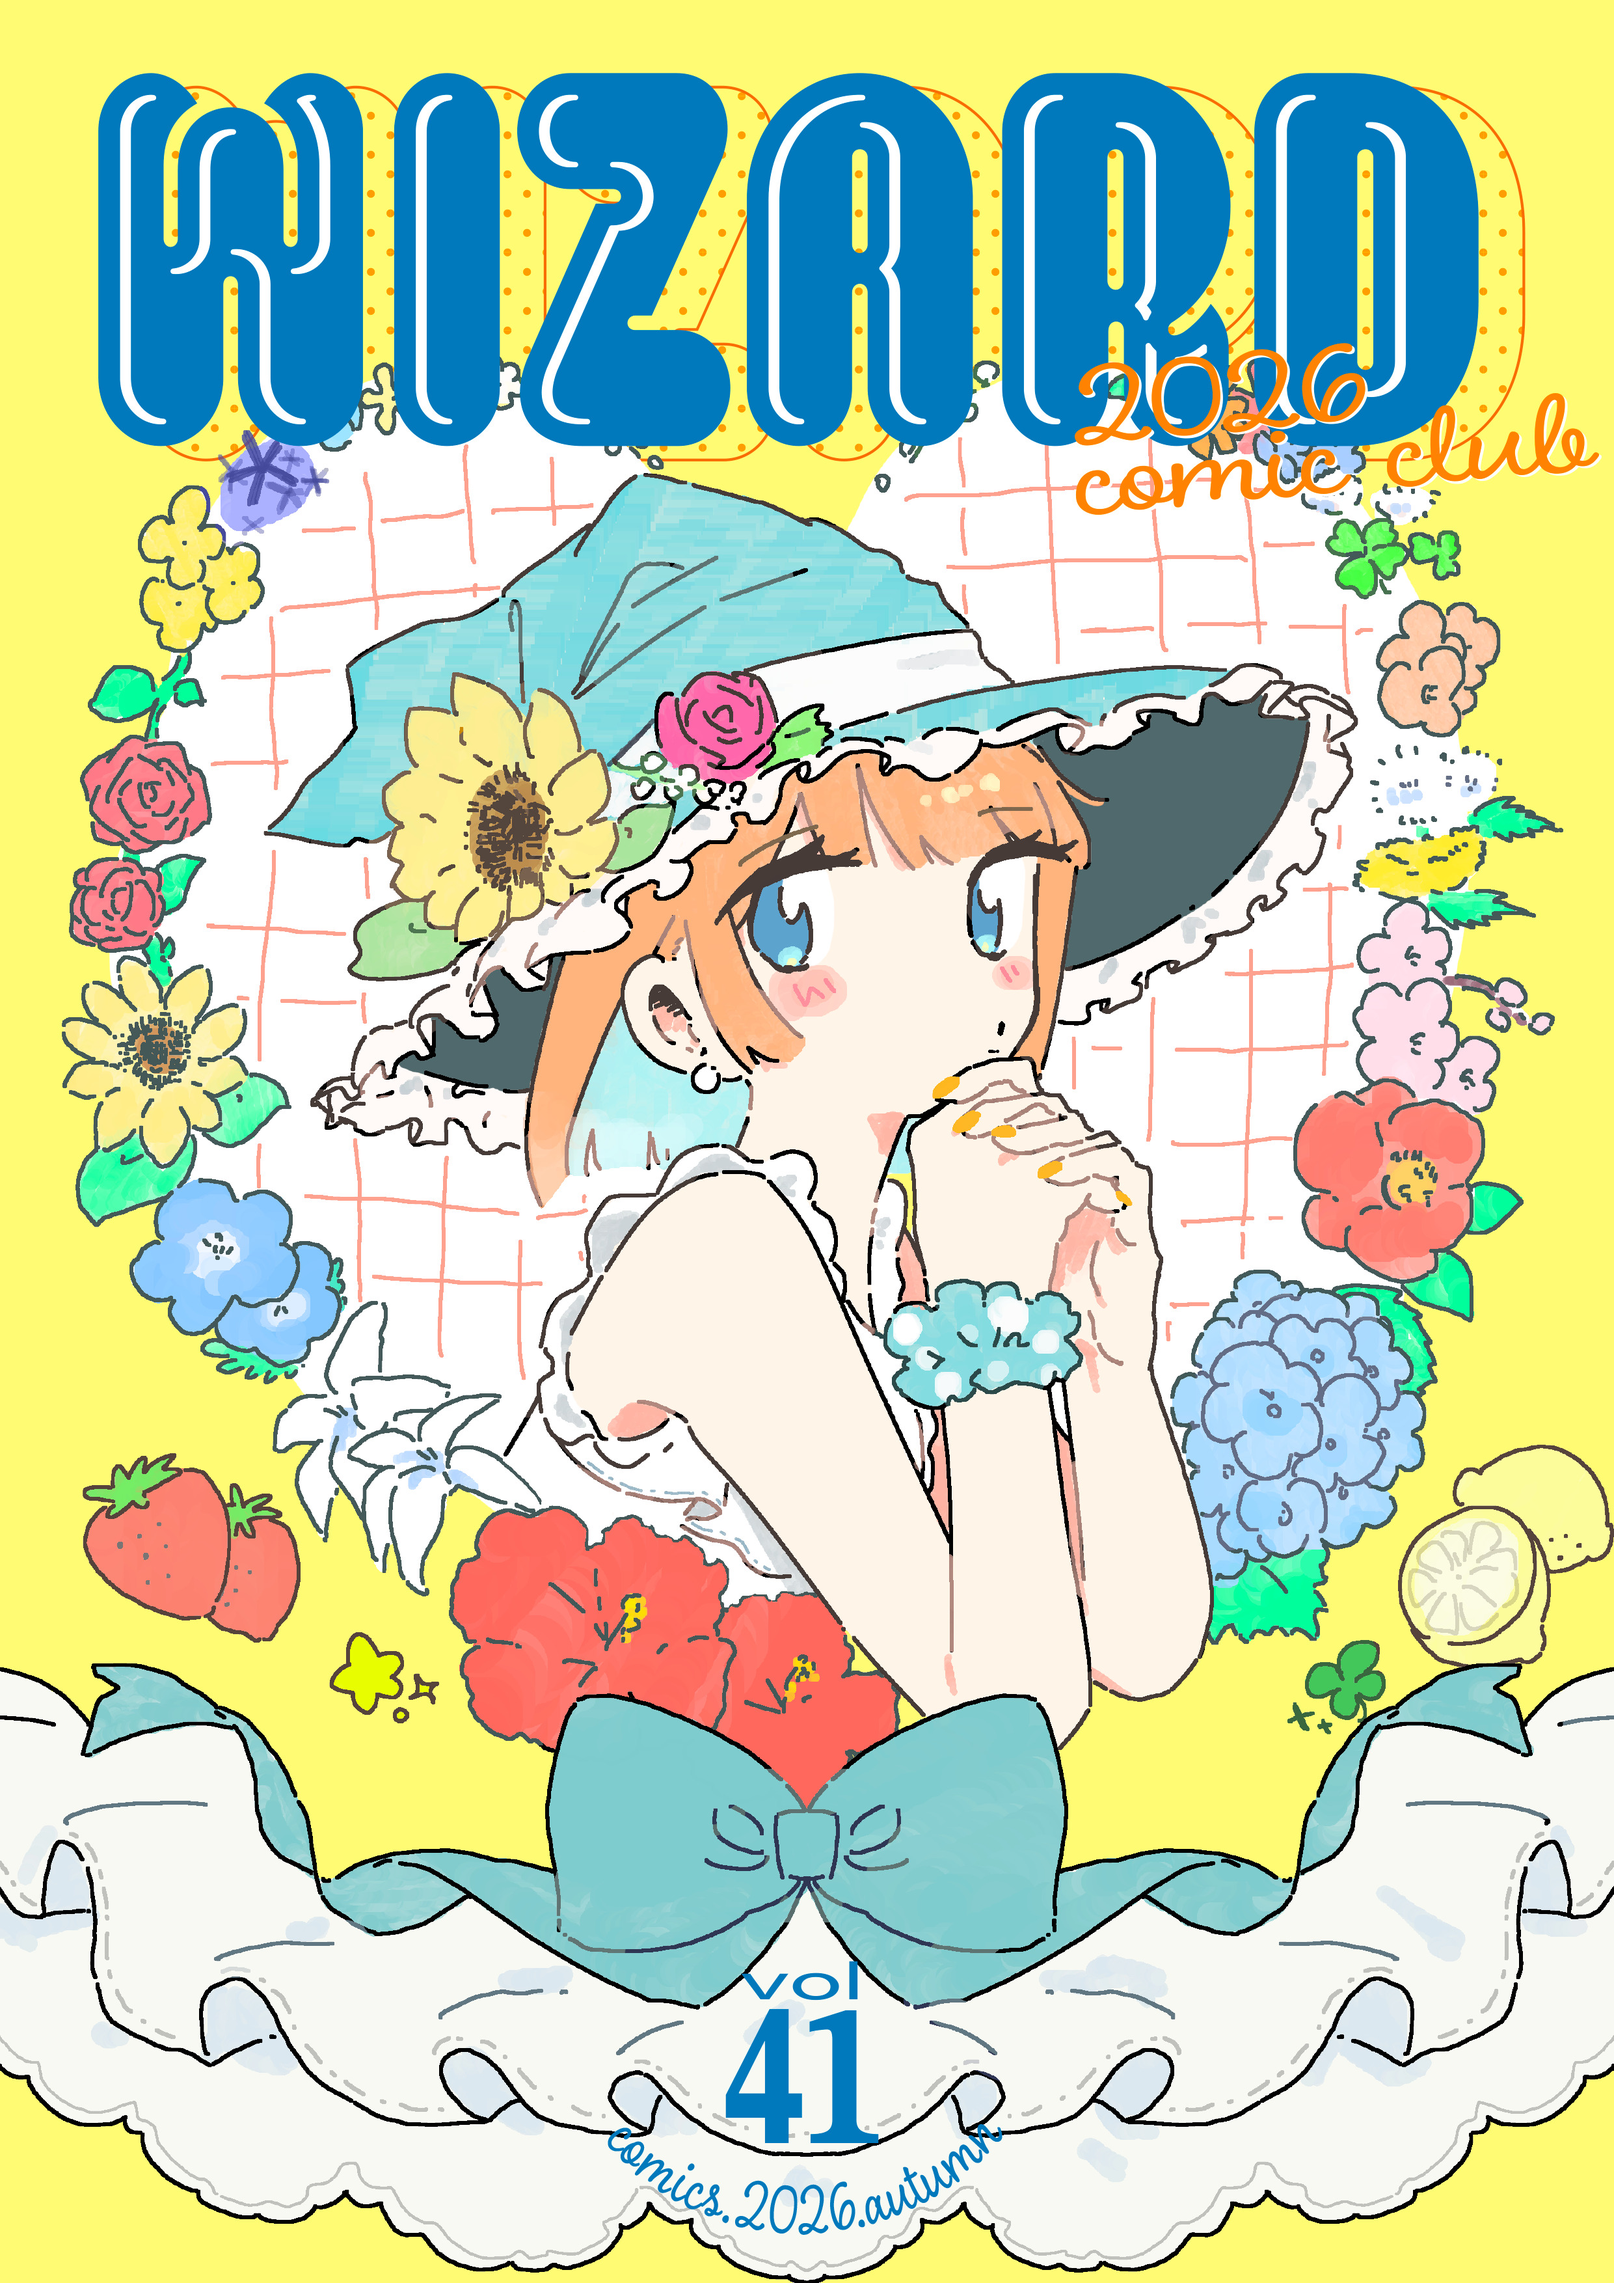
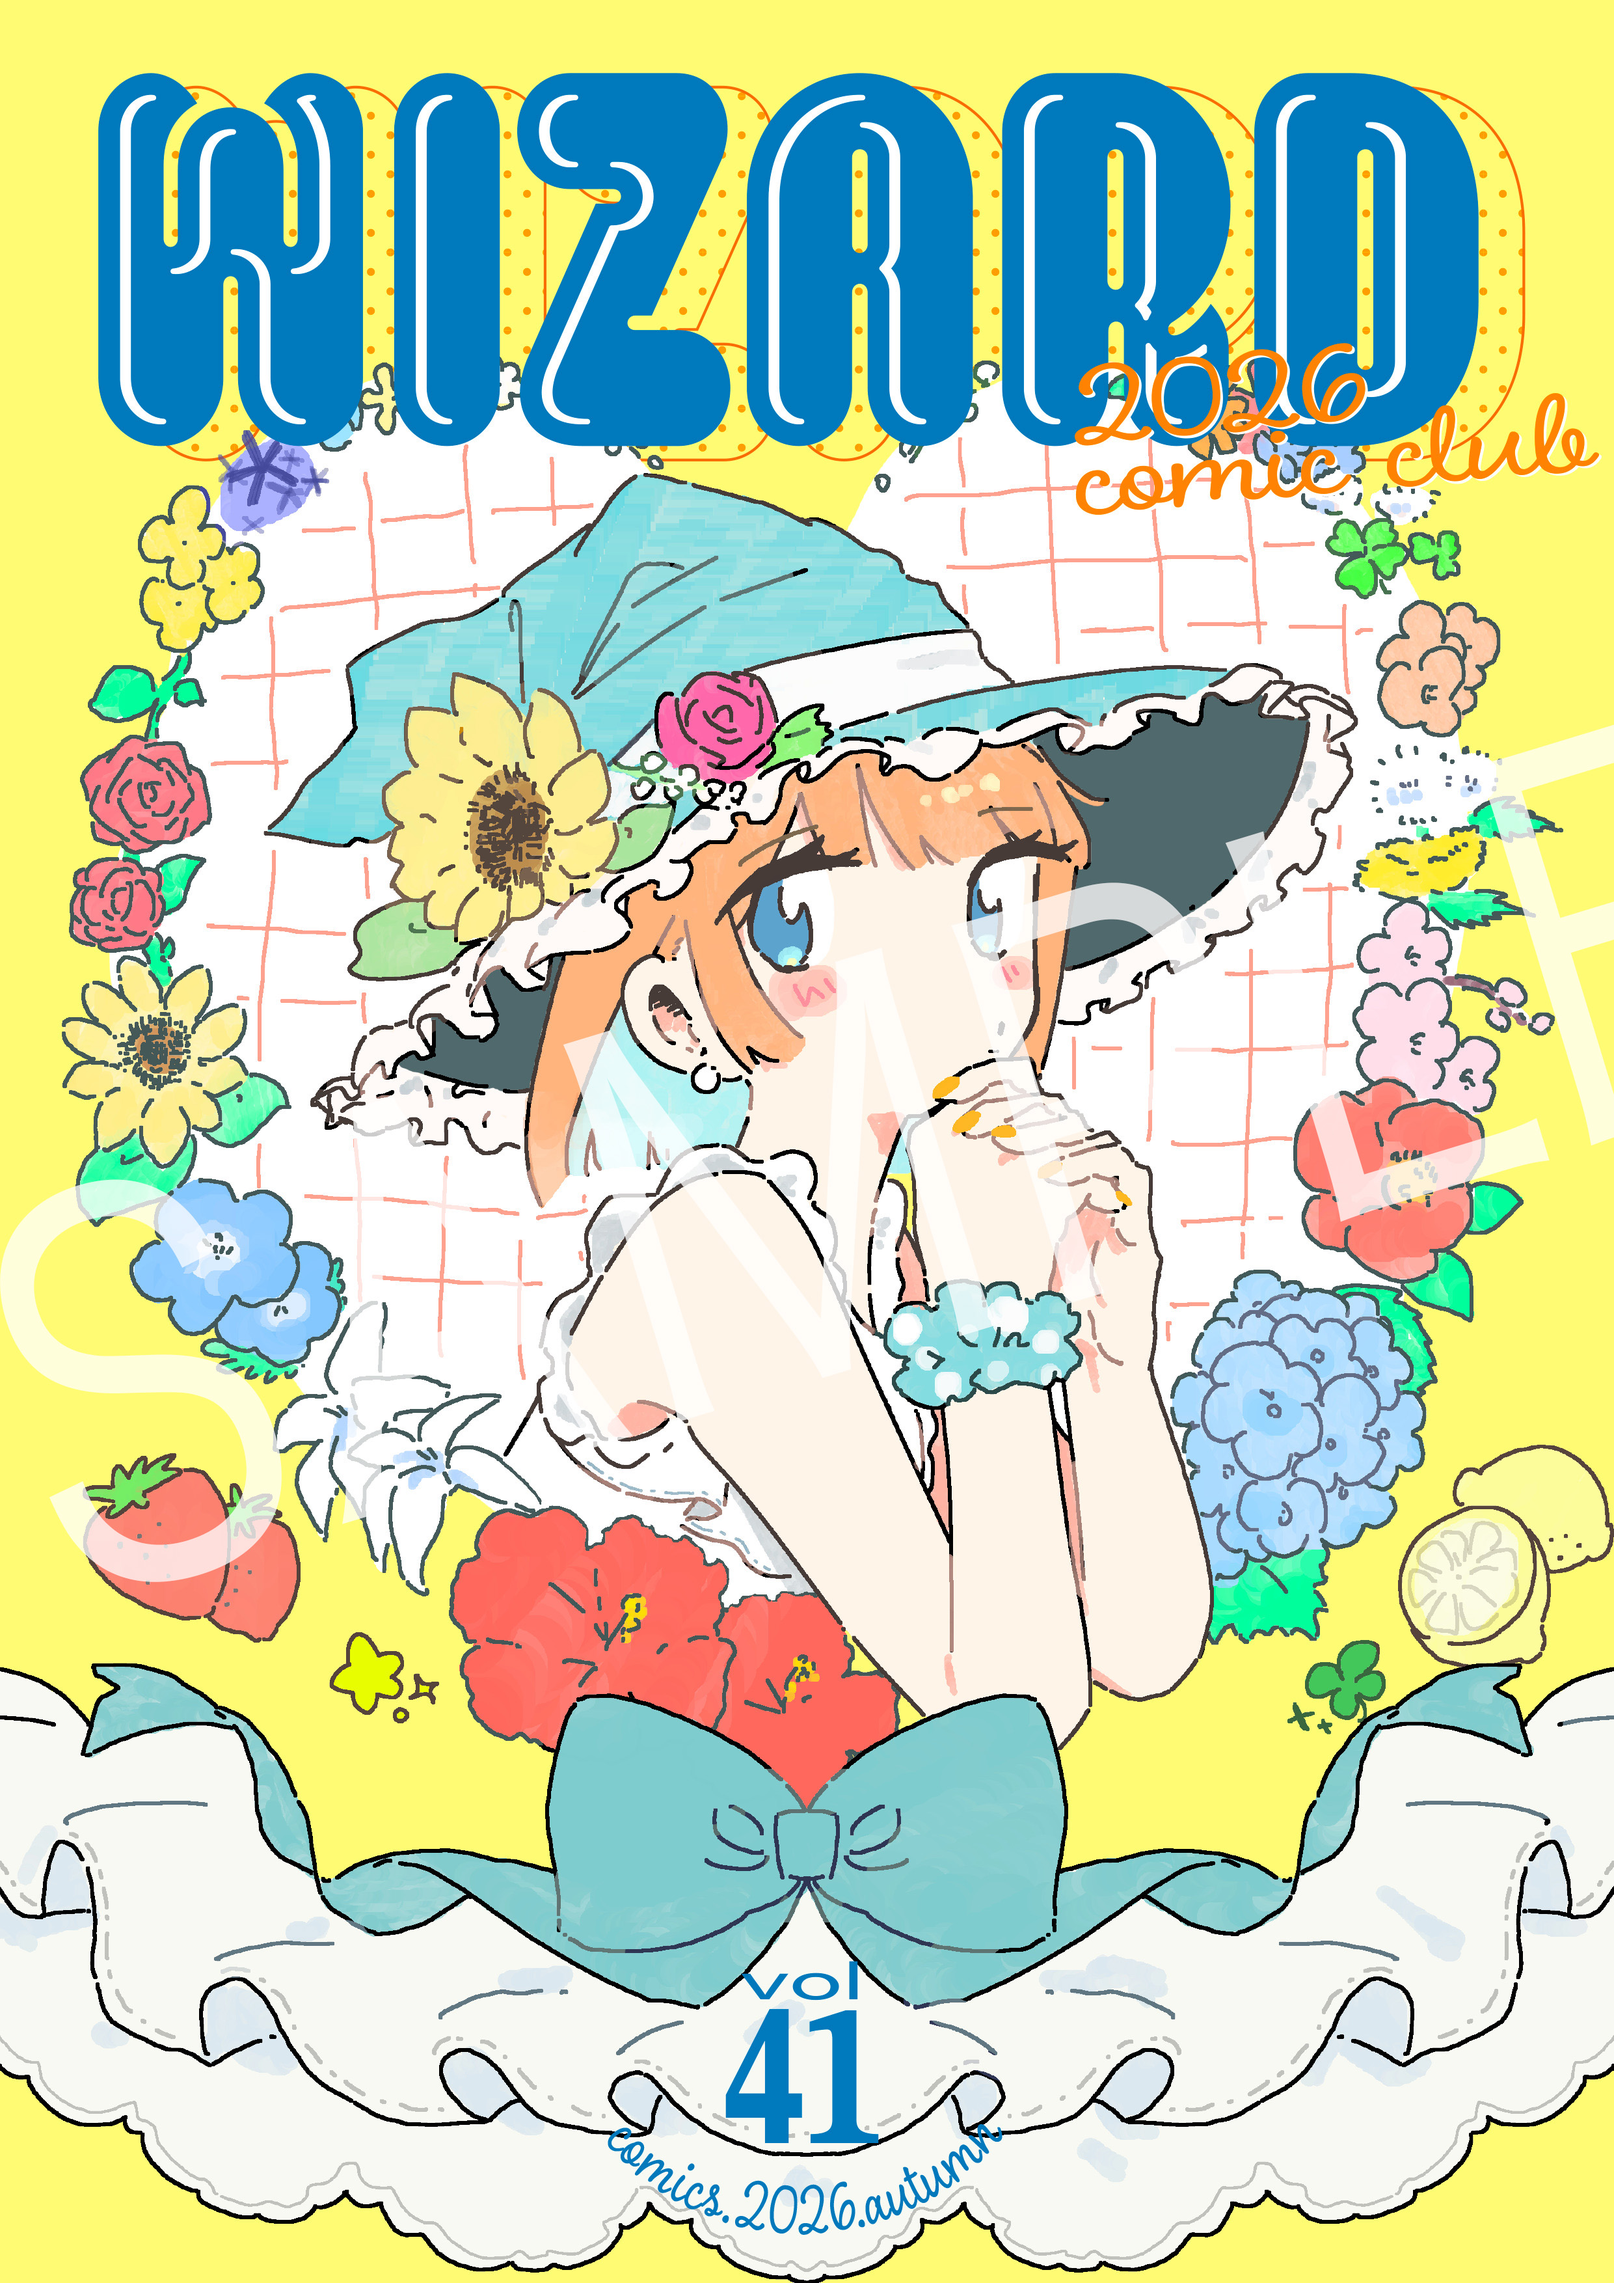
画像を更新した

diff --git a/style.css b/style.css
@@ -323,13 +323,31 @@ body {
   flex-direction: column;
   align-items: center;
   position: relative;
-  height: 390px;
+  height: 370px;
   background-color: #3493ff;
 }
 
 .board img {
+  position: absolute;
+  width: 130px;
+}
+
+.boardimages img {
   width: 120px;
 }
+
+.board-haikei1 {
+  position: absolute;
+  top: 5px;
+  right: 10px;
+}
+
+.board-haikei2 {
+  position: absolute;
+  bottom: 0px;
+  left: 10px;
+}
+
 
 .board .boardimages {
   display: flex;
@@ -371,11 +389,14 @@ body {
 }
 
 .board p {
+  display: flex;
+  text-align: center;
   position: absolute;
   font-family: "M PLUS Rounded 1c", sans-serif;
   font-size: 15px;
   padding: 10px;
   font-weight: lighter;
+  color: #fff;
   top: 250px;
 }
 
@@ -786,7 +807,8 @@ body {
 
   overflow: hidden;
 
-  padding: 30px 30px 40px 20px;
+  padding:0px;
+  border: #848484 1px solid;
 }
 
 /* ==============================
@@ -858,6 +880,21 @@ body {
 }
 
 #tab2-panel-spring {
+  background-image: url(images/note.png);
+  background-size: cover;
+}
+
+#tab2-panel-summer {
+  background-image: url(images/note.png);
+  background-size: cover;
+}
+
+#tab2-panel-autumn {
+  background-image: url(images/note.png);
+  background-size: cover;
+}
+
+#tab2-panel-winter {
   background-image: url(images/note.png);
   background-size: cover;
 }

diff --git a/index.html b/index.html
@@ -132,18 +132,24 @@
         </section>
         <section class="board">
           <h1>BOARD</h1>
+          <img src="images/board-haikei1.PNG" alt="" class="board-haikei1">
           <div class="boardimages">
             <div class="board1">
-              <img src="images/board1.png" alt="" />
+              <img src="images/board1.jpg" alt="" />
             </div>
             <div class="board2">
-              <img src="images/board2.png" alt="" />
+              <img src="images/board2.jpg" alt="" />
             </div>
             <div class="board3">
               <img src="images/board3.png" alt="" />
             </div>
           </div>
-          <p>今年のテーマは植物！</p>
+          <p>
+            今年のテーマは植物！<br>
+            どんな植物がモチーフなのか<br>
+            想像してみてください♪
+          </p>
+          <img src="images/board-haikei2.png" alt="" class="board-haikei2">
         </section>
         <section class="else">
           <div class="postcard">
